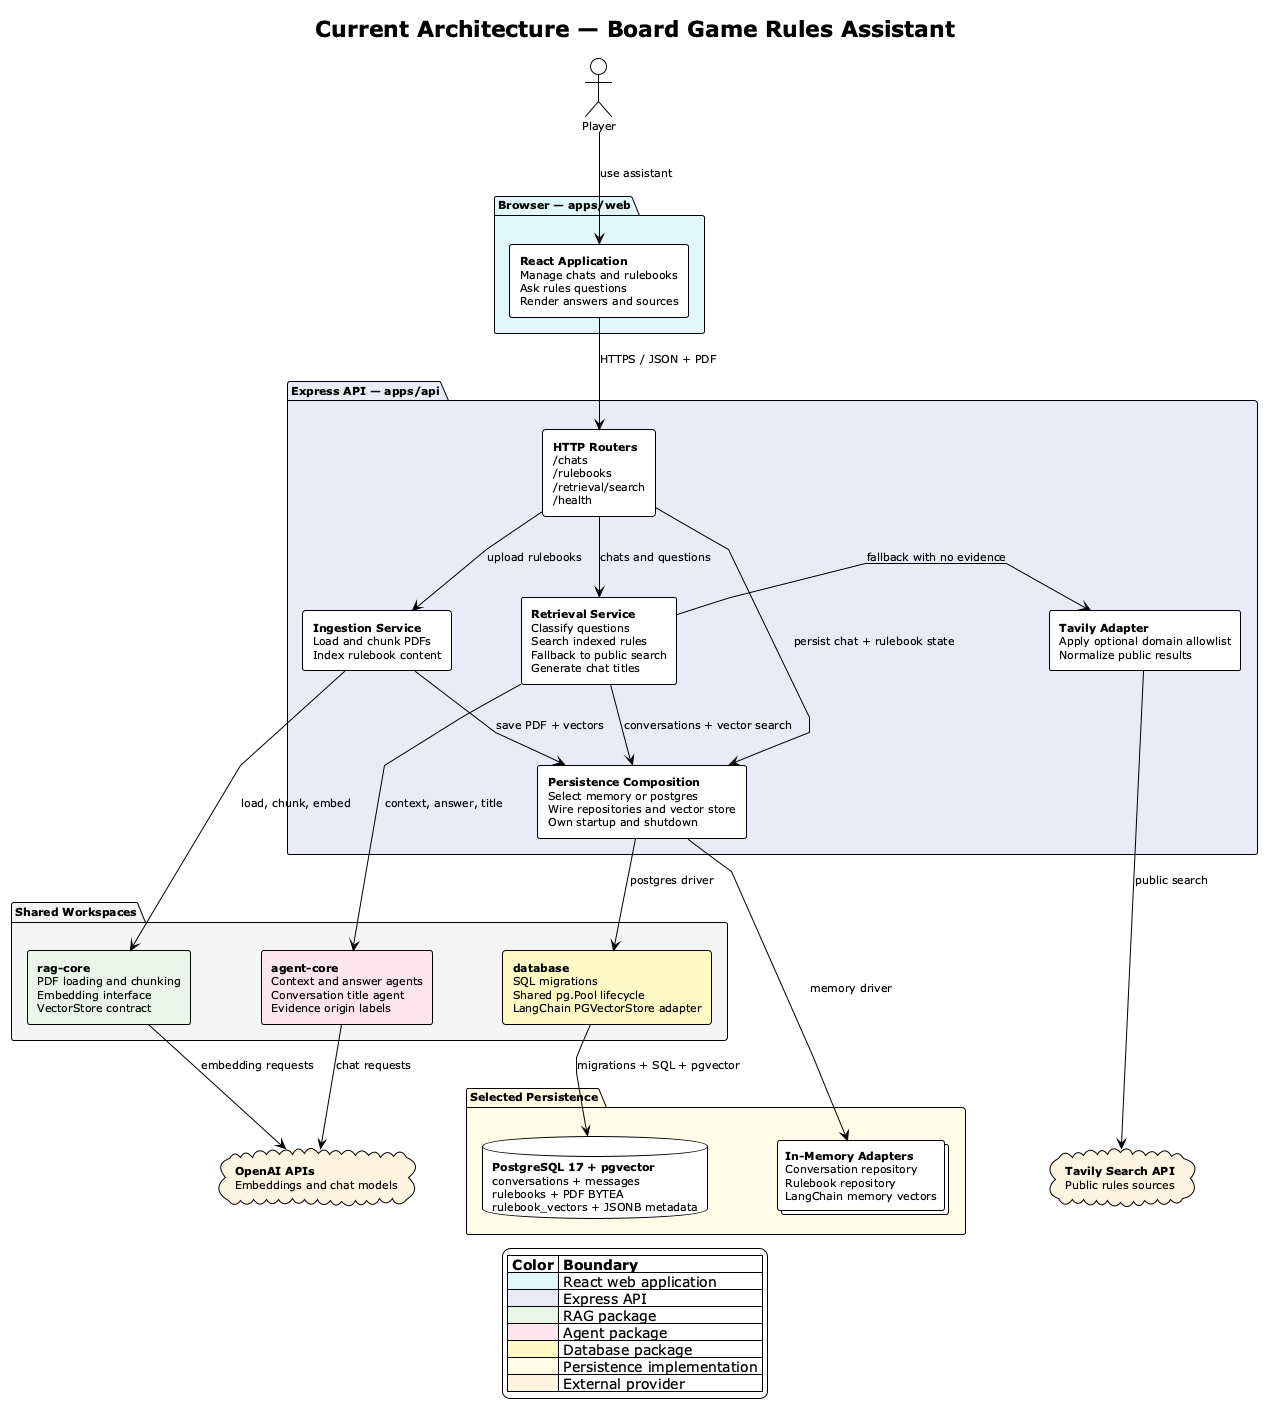
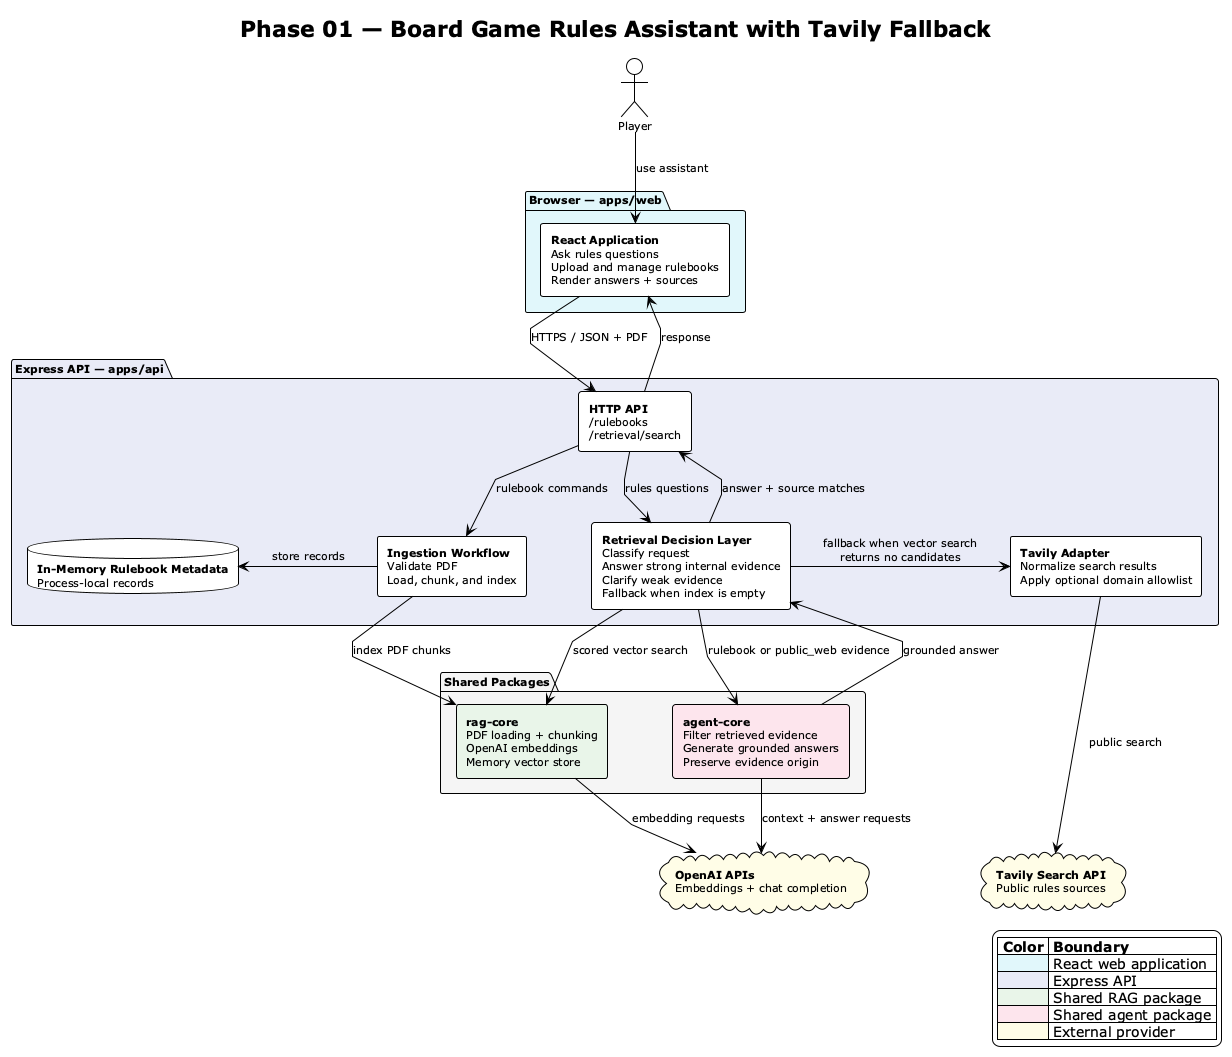
docs: move persistence architecture to phase 02

diff --git a/docs/tech-reviews/002-phase-02-postgres-pgvector-persistence/high-level-design.md b/docs/tech-reviews/002-phase-02-postgres-pgvector-persistence/high-level-design.md
@@ -1,0 +1,140 @@
+# Phase 02 PostgreSQL and pgvector Persistence — High-Level Design
+
+|             |                                                                    |
+| ----------- | ------------------------------------------------------------------ |
+| **Status**  | `IMPLEMENTED`                                                      |
+| **Date**    | 2026-07-14                                                         |
+| **Context** | Durable chats, rulebooks, original PDFs, and vector-search content |
+
+---
+
+## Problem Statement
+
+The earlier architecture kept chats, rulebook metadata, uploaded content, and
+vectors inside the API process. Restarting the API lost that state, and the
+in-memory vector implementation could not represent a production persistence
+path. The application needed durable storage without coupling its application
+services directly to PostgreSQL.
+
+## Current State
+
+The API selects a persistence driver at startup. Memory mode retains lightweight
+process-local repositories and a LangChain memory vector store. PostgreSQL mode
+uses one shared connection pool, ordered SQL migrations, relational repository
+adapters, and LangChain `PGVectorStore` backed by pgvector.
+
+PostgreSQL stores:
+
+- conversations, generated titles, and bounded message history;
+- rulebook metadata and original PDF bytes in `BYTEA`;
+- rulebook chunks, embeddings, and JSONB metadata in `rulebook_vectors`.
+
+The API waits for migrations and persistence health checks before listening and
+closes the shared pool during graceful shutdown. `rag-core` remains
+storage-neutral through its `VectorStore` contract.
+
+## Scope
+
+### In Scope
+
+- Selectable `memory` and `postgres` persistence drivers.
+- PostgreSQL 17 with the pgvector extension.
+- A workspace database package for migrations, pool lifecycle, and the
+  LangChain pgvector adapter.
+- PostgreSQL repositories for conversations and rulebooks.
+- Persistent original PDFs, chat messages, titles, vectors, and metadata.
+- Docker Compose configuration for local PostgreSQL development.
+- Exact cosine-similarity search through LangChain `PGVectorStore`.
+
+### Out of Scope
+
+- Authentication and per-user authorization.
+- Vector deletion when a rulebook is deleted.
+- Stable chunk identifiers, deduplication, or replacement semantics.
+- Database-native metadata-filter expressions.
+- HNSW or IVFFlat approximate indexes.
+- Object storage for original PDFs.
+
+## Recommended Solution
+
+### Diagram Decision
+
+Use a full-system dependency diagram because persistence affects the web-facing
+workflows, API composition, all three shared workspaces, local memory adapters,
+PostgreSQL/pgvector, and both external AI/search providers.
+
+![Phase 02 full-system architecture](./diagrams/phase-02-system-architecture.png)
+
+[PlantUML source](./diagrams/phase-02-system-architecture.puml)
+
+### Description
+
+The React application calls Express routers for chat management, rulebook
+management, and retrieval. Ingestion loads and chunks PDFs through `rag-core`,
+then writes original PDF data through the rulebook repository and searchable
+chunks through the selected vector store.
+
+Retrieval reads conversation context and performs vector search through the same
+persistence composition. Accepted evidence flows through `agent-core` context
+and answer agents. When indexed evidence is unavailable, the existing Phase 01
+Tavily adapter remains the public-search fallback. OpenAI supplies embedding and
+chat models.
+
+The API composition root selects memory or PostgreSQL once during startup. In
+PostgreSQL mode, `@board-game-rules-assistant/database` runs migrations,
+initializes a shared `pg.Pool`, and adapts LangChain `PGVectorStore` to the
+`rag-core` contract. API-owned PostgreSQL repositories share that pool for chat
+and rulebook SQL operations.
+
+## Key Decisions
+
+| Decision                                               | Rationale                                                                                |
+| ------------------------------------------------------ | ---------------------------------------------------------------------------------------- |
+| One PostgreSQL database for relational and vector data | Keeps local operation and transactional data ownership simple.                           |
+| LangChain `PGVectorStore`                              | Matches the existing LangChain vector abstraction and minimizes custom similarity SQL.   |
+| Shared `pg.Pool`                                       | Avoids independent connection pools for vectors and repositories.                        |
+| Versioned application migrations                       | Makes the relational schema repeatable and reviewable.                                   |
+| Memory driver retained                                 | Keeps unit tests and lightweight local runs fast.                                        |
+| Exact cosine search                                    | Avoids premature approximate-index tuning at the current scale.                          |
+| PDF bytes in `BYTEA`                                   | Fits the current 40 MB upload limit and avoids introducing object storage in this phase. |
+
+## Risks and Mitigations
+
+| Risk                                                  | Impact                                                           | Mitigation                                                                                                                        |
+| ----------------------------------------------------- | ---------------------------------------------------------------- | --------------------------------------------------------------------------------------------------------------------------------- |
+| Append-oriented vector ingestion can duplicate chunks | Search quality and storage can degrade after repeated ingestion. | Add stable chunk IDs and replacement semantics in a later phase.                                                                  |
+| Rulebook deletion does not remove vectors             | Deleted content may remain searchable.                           | Extend the vector contract with rulebook-scoped deletion before relying on deletion as a privacy boundary.                        |
+| PDF `BYTEA` rows increase database size               | Backups and reads can become expensive at larger scale.          | Metadata list queries exclude PDF bytes; move binaries to object storage if scale requires it.                                    |
+| Callback filters cannot execute in PostgreSQL         | Arbitrary memory filters are not portable.                       | Reject callback filters explicitly and design typed SQL metadata filters later.                                                   |
+| LangChain owns the vector table shape                 | Schema evolution is partly coupled to the integration.           | Keep application tables migration-owned and migrate the vector table to an application-owned schema if richer joins are required. |
+
+## Rollout Strategy
+
+1. Start PostgreSQL through Docker Compose and wait for its health check.
+2. Configure `PERSISTENCE_DRIVER=postgres` and `DATABASE_URL`.
+3. Start the API; it runs migrations and verifies pgvector before listening.
+4. Upload a rulebook, create a chat, ask a question, and restart the API.
+5. Confirm the rulebook, chat history, PDF record, and vector search survive the
+   restart.
+
+Memory mode remains available as a rollback for local development. Production
+configuration rejects the memory driver.
+
+## Testing and Validation
+
+- Run repository contracts against memory and PostgreSQL adapters.
+- Run migration tests against a real pgvector container.
+- Verify vector insertion, metadata round-tripping, and scored cosine search
+  with deterministic embeddings.
+- Verify driver configuration and production memory-mode rejection.
+- Verify startup health checks and idempotent pool shutdown.
+- Exercise upload, chat, retrieval, restart, and delete behavior through the API.
+
+## Future Work
+
+- Delete vector chunks atomically with their rulebook.
+- Add stable chunk IDs and replacement semantics.
+- Introduce typed metadata filters for authorized retrieval.
+- Measure scale and recall before adding an approximate vector index.
+- Move PDF binaries to object storage when database size or delivery patterns
+  justify it.

diff --git a/docs/tech-reviews/001-phase-01-tavily-public-search/high-level-design.md b/docs/tech-reviews/001-phase-01-tavily-public-search/high-level-design.md
@@ -10,7 +10,7 @@
 
 ## Problem Statement
 
-The Phase 0 assistant could answer only when its internal vector store returned
+The Phase 0 assistant can answer only when the in-memory vector store returns
 relevant uploaded rulebook chunks. A supported board-game question with no
 matching indexed evidence therefore stops without trying an available public
 source. Phase 01 adds a bounded Tavily fallback while keeping unrelated requests
@@ -18,19 +18,12 @@ out of scope and preserving the origin of every piece of evidence.
 
 ## Current State
 
-The API exposes chat, rulebook, and retrieval endpoints. It classifies each
-question, searches the selected vector store, and accepts rulebook matches whose
-similarity score is greater than `0.65`. If candidates exist but all are weak,
-the API asks the user to clarify rather than searching the web. Tavily is used
-only when the vector store returns no candidates. Its results are labeled
-`public_web`, passed through the existing context and answer agents, and returned
-with source URLs.
-
-Persistence is now selected at startup. Memory mode keeps conversations,
-rulebooks, PDFs, and vectors process-local. PostgreSQL mode uses one shared pool,
-versioned migrations, relational conversation and rulebook repositories, and
-LangChain `PGVectorStore` over pgvector. The PostgreSQL rulebook table retains
-original PDF bytes while the vector table stores searchable chunks and metadata.
+The API exposes `POST /retrieval/search`. It classifies the question, searches
+the shared in-memory vector store, and accepts rulebook matches whose similarity
+score is greater than `0.65`. If candidates exist but all are weak, the API asks
+the user to clarify rather than searching the web. Tavily is used only when the
+vector store returns no candidates. Its results are labeled `public_web`, passed
+through the existing context and answer agents, and returned with source URLs.
 
 The fallback is domain-restricted only when
 `PUBLIC_SEARCH_INCLUDE_DOMAINS` is configured. Tavily scores and source authority
@@ -94,28 +87,28 @@ accurately described as public search with an optional trusted-domain allowlist.
 
 ### Diagram Decision
 
-- Diagram decision: use a full-system architecture diagram because the current
-  flow spans the React client, Express HTTP and application layers, three shared
-  packages, selectable persistence, and two external AI/search providers. The
-  branch-level retrieval decision remains in the low-level design.
+- Diagram decision: use a full-system architecture diagram because Phase 01
+  spans the React client, Express HTTP and application layers, shared RAG and
+  agent packages, in-memory storage, and two external AI/search providers. The
+  branch-level decision flow remains in the low-level design.
 
-![Current full-system architecture](./diagrams/phase-01-system-architecture.png)
+![Phase 01 full-system architecture](./diagrams/phase-01-system-architecture.png)
 
 [PlantUML source](./diagrams/phase-01-system-architecture.puml)
 
 ### Description
 
-The React web app uses the Express API to manage chats and rulebooks and to ask
-rules questions. `IngestionRouter` and `IngestionService` load uploaded PDFs
-through `rag-core`, generate OpenAI embeddings, and write chunks to the selected
-vector store. The selected rulebook repository stores metadata and original PDF
-bytes; PostgreSQL keeps them in a relational `rulebooks` table.
+Phase 01 preserves the Phase 0 system boundaries. The React web app continues to
+use the Express API for rulebook management and questions. `IngestionRouter` and
+`IngestionService` load uploaded PDFs through `rag-core`, generate OpenAI
+embeddings, and write chunks to the shared in-memory vector store. Rulebook list
+metadata remains in the in-memory repository, separate from vector content.
 
 For questions, `RetrievalRouter` delegates to `RetrievalService`, which remains
 the retrieval decision owner. It uses `RequestClassifierService` as the domain
-guard, searches the same selected vector store used by ingestion, and treats
-accepted indexed chunks as `rulebook` evidence. When internal evidence is
-unavailable, it calls the provider-neutral `PublicSearchService`, implemented by
+guard, searches the same vector store used by ingestion, and treats accepted
+indexed chunks as `rulebook` evidence. When internal evidence is unavailable,
+it calls the provider-neutral `PublicSearchService`, implemented by
 `TavilyPublicSearchService`.
 
 The Tavily adapter applies the configured domain list and normalizes provider
@@ -125,12 +118,9 @@ rulebook and public-web evidence flow through `RuleContextAgent` and
 provider errors stop without generating an answer from unsupported evidence.
 
 This architecture separates ingestion, retrieval decisions, provider adapters,
-answer generation, and persistence composition. `rag-core` owns storage-neutral
-RAG contracts, `agent-core` owns model-facing agents, and the database package
-owns PostgreSQL migrations, pool lifecycle, and the LangChain pgvector adapter.
-Evidence provenance remains separate from generation: prompts distinguish
-uploaded rules from potentially unofficial public content, while the web app
-can render the source of each returned match.
+and answer generation. It also separates evidence provenance from generation:
+prompts distinguish authoritative uploaded rules from potentially unofficial
+public content, while the web app can render the source of each returned match.
 
 ### Pros
 
@@ -166,9 +156,6 @@ can render the source of each returned match.
   and Tavily adapter.
 - `apps/packages/rag-core`: vector-store interface and scored similarity search.
 - `apps/packages/agent-core`: context-origin labels and answer agents.
-- `apps/packages/database`: PostgreSQL migrations, connection-pool lifecycle,
-  and the LangChain pgvector adapter.
-- PostgreSQL 17 with pgvector when `PERSISTENCE_DRIVER=postgres`.
 - Tavily API and `@langchain/tavily`.
 - OpenAI chat model used by the context and answer agents.
 
@@ -188,11 +175,10 @@ domains during early use.
 
 ## Rollback Plan
 
-The Tavily feature remains a code-and-configuration rollback: remove or disable
-the Tavily-backed service and restore the internal-only not-found behavior.
-PostgreSQL conversations, rulebooks, PDFs, and vector rows are independent of
-that fallback and require no rollback migration. Expected recovery time is under
-one deployment cycle.
+Rollback is code- and configuration-only because the feature writes no durable
+data. Remove or disable construction of the Tavily-backed service and restore the
+internal-only not-found behavior. Existing vector data and API request schemas do
+not require migration. Expected recovery time is under one deployment cycle.
 
 ## Testing & Validation Approach
 

diff --git a/README.md b/README.md
@@ -75,9 +75,13 @@ board-game-rules-assistant/
 
 See the [Phase 0 flow](docs/tech-reviews/000-phase-0-single-pdf-rag-agent/diagrams/phase-0-flow.png).
 
-![Current system architecture](docs/tech-reviews/001-phase-01-tavily-public-search/diagrams/phase-01-system-architecture.png)
+![Current system architecture](docs/tech-reviews/002-phase-02-postgres-pgvector-persistence/diagrams/phase-02-system-architecture.png)
 
-[Current architecture PlantUML source](docs/tech-reviews/001-phase-01-tavily-public-search/diagrams/phase-01-system-architecture.puml)
+[Current architecture PlantUML source](docs/tech-reviews/002-phase-02-postgres-pgvector-persistence/diagrams/phase-02-system-architecture.puml)
+
+See the
+[Phase 02 PostgreSQL and pgvector HLD](docs/tech-reviews/002-phase-02-postgres-pgvector-persistence/high-level-design.md)
+for persistence boundaries, decisions, rollout, and known risks.
 
 See the
 [Phase 01 Tavily retrieval low-level design](docs/tech-reviews/001-phase-01-tavily-public-search/low-level-design.md)